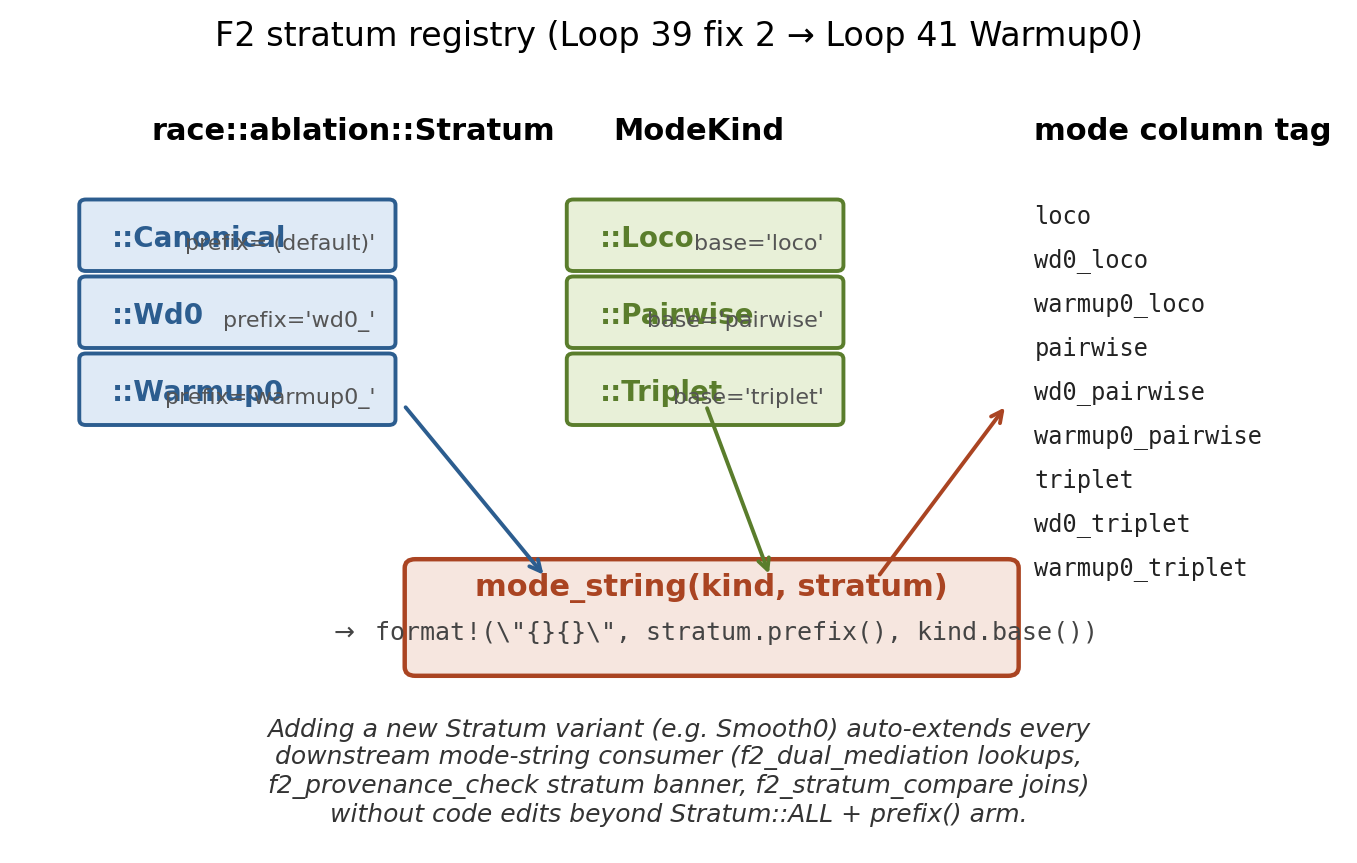
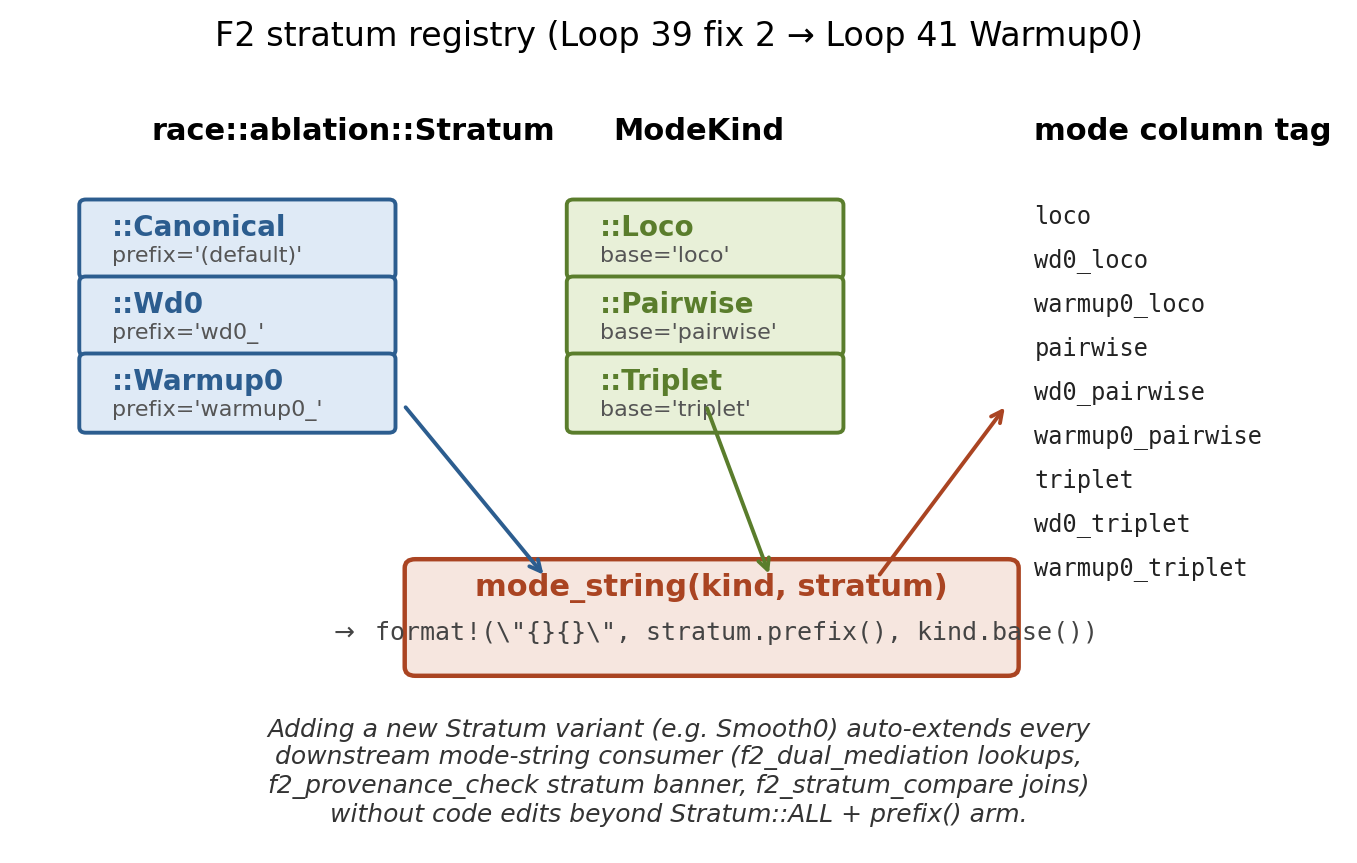
fix(f2): 28th pass critical fixes on #1021 + Fig 5/Fig 1 polish (Loop 105)
Loop 105 dispatched the 28th adversarial pass as a round-2 audit on
the Loop 104 patches to the #1021 paper. The 28th pass discovered
that Loop 104's patches introduced NEW issues — TWO mis-citations in
a row for the integer-zoo entry, and the "residualization" patch
to §3.4 did not actually fix the identification problem.

# 1. Jetfire IS INT8, not INT4-W4A8 (Loop 105 D — critical)

The Loop 104 patch corrected the arXiv id of Jetfire from
2310.16836 (which is LLM-FP4) to 2403.12422 — but then claimed
Jetfire trains with "INT4 weights and INT8 activations". The 28th
pass verified via WebFetch that arXiv:2403.12422 is "Jetfire:
Efficient and Accurate Transformer Pretraining with **INT8** Data
Flow and Per-Block Quantization" — INT8 throughout, NOT INT4.

So Loop 104 swapped one wrong attribution for another.

Fix Loop 105:
- Zoo entry renamed INT4-W4A8 → INT8 throughout (§1 §2.1 §3.1 §4.3
  + DRAFT notes citation list)
- §2.1 prose rewritten honestly: Jetfire = INT8 (its actual claim);
  acknowledge no widely-cited from-scratch INT4-W4A8 reference at
  ≥1B params; drop INT4 entry from the zoo
- §3.1 sweep matrix `INT4-W4A8` row → `INT8` row with correct
  Jetfire arXiv id
- §1.4 carve-out updated: "INT4 or FP8" → "INT8 or FP8"
- DRAFT-notes citation list updated to (arXiv:2403.12422) with
  explicit annotation "INT8, not INT4 (Loop 105 correction)"

The 8-config zoo is preserved: 4 phi (GFTernary/GF8/GF16/GF32) +
4 zoo (BitNet-1.58, INT8, FP8, bf16).
[…]

Changed region(s): [[0.0619, 0.241, 0.3095, 0.5122], [0.4024, 0.241, 0.619, 0.5122]]

diff --git a/papers/figures/fig1_stratum_registry.py b/papers/figures/fig1_stratum_registry.py
@@ -48,31 +48,34 @@ def main():
             fontsize=11, fontweight="bold", ha="left")
     for i, (name, prefix) in enumerate(STRATA):
         y = 5.5 - i * 0.7
+        # Loop 105 fix: box height increased + prefix annotation moved
+        # to a separate y row so it no longer collides with the enum name
+        # (was "::Canonicaldefault" run-together text).
         rect = mpatches.FancyBboxPatch(
-            (0.5, y - 0.25), 2.3, 0.55,
+            (0.5, y - 0.32), 2.3, 0.62,
             boxstyle="round,pad=0.05",
             facecolor="#dfeaf6", edgecolor="#2c5d8f", linewidth=1.4,
         )
         ax.add_patch(rect)
-        ax.text(0.7, y, f"::{name}", fontsize=10, fontweight="bold",
+        ax.text(0.7, y + 0.10, f"::{name}", fontsize=10, fontweight="bold",
                 color="#2c5d8f", va="center")
-        ax.text(2.7, y - 0.05, f"prefix={prefix!r}", fontsize=8, color="#555555",
-                va="center", ha="right")
+        ax.text(0.7, y - 0.16, f"prefix={prefix!r}", fontsize=8, color="#555555",
+                va="center", ha="left")
 
     # Middle column: ModeKind enum.
     ax.text(4.5, 6.4, "ModeKind", fontsize=11, fontweight="bold", ha="left")
     for i, (name, base) in enumerate(MODE_KINDS):
         y = 5.5 - i * 0.7
         rect = mpatches.FancyBboxPatch(
-            (4.2, y - 0.25), 2.0, 0.55,
+            (4.2, y - 0.32), 2.0, 0.62,
             boxstyle="round,pad=0.05",
             facecolor="#e8f0d8", edgecolor="#5a7d2c", linewidth=1.4,
         )
         ax.add_patch(rect)
-        ax.text(4.4, y, f"::{name}", fontsize=10, fontweight="bold",
+        ax.text(4.4, y + 0.10, f"::{name}", fontsize=10, fontweight="bold",
                 color="#5a7d2c", va="center")
-        ax.text(6.1, y - 0.05, f"base={base!r}", fontsize=8, color="#555555",
-                va="center", ha="right")
+        ax.text(4.4, y - 0.16, f"base={base!r}", fontsize=8, color="#555555",
+                va="center", ha="left")
 
     # Right column: emitted mode strings (cross-product).
     ax.text(7.7, 6.4, "mode column tag",

diff --git a/papers/figures/fig5_swap_nie_m1_heatmap.py b/papers/figures/fig5_swap_nie_m1_heatmap.py
@@ -139,10 +139,12 @@ def main():
 
     ax.set_xlabel("Stratum")
     ax.set_ylabel("fix_x")
+    # Loop 105 fix: caption was overlapping the x-axis label.
+    # Move caption further below and reserve bottom margin in layout.
+    fig.tight_layout(rect=(0, 0.06, 1, 1))
     plt.figtext(
-        0.5, 0.005,
-        "Thick row outline = byte-identical estimate across all 3 strata "
-        "(Loop 64 Phase 0 finding)",
+        0.5, 0.015,
+        "Thick row outline = byte-identical estimate across all 3 strata",
         ha="center", fontsize=8, style="italic",
     )
 

diff --git a/papers/tmlr_submission_kit/f2_methodology_body.tex b/papers/tmlr_submission_kit/f2_methodology_body.tex
@@ -1,4 +1,4 @@
-% f2_methodology_body.tex — auto-generated by md_to_tmlr_tex.py at 2026-06-01T23:23:25Z.
+% f2_methodology_body.tex — auto-generated by md_to_tmlr_tex.py at 2026-06-01T23:39:52Z.
 % Do not edit by hand; modify papers/f2_methodology.md and re-run the script.
 
 

diff --git a/papers/phi_ladder_paper_intro_draft.md b/papers/phi_ladder_paper_intro_draft.md
@@ -15,7 +15,7 @@ TMLR/MLRC reader sees first.
 
 A modern transformer training recipe pins down dozens of choices
 that interact in non-obvious ways. Among them, the **numeric
-representation** of weights and activations — bf16, FP8, INT4-W4A8,
+representation** of weights and activations — bf16, FP8, INT8,
 BitNet-1.58 ternary — has become a moving target, with new "zoo"
 entries published every quarter and very few of them evaluated
 against each other on the same controlled training regime. The
@@ -25,7 +25,7 @@ does the **phi-ladder** family of representations
 (GFTernary → GF8 → GF16 → GF32, anchored at the golden-ratio
 recurrence $\phi^2 + \phi^{-2} = 3$) yield lower held-out
 validation bits-per-byte (BPB) than the leading members of the
-mainstream zoo (BitNet-1.58, INT4-W4A8, MXFP8, bf16)?*
+mainstream zoo (BitNet-1.58, INT8 Jetfire, MXFP8, bf16)?*
 
 The contribution of this paper is **not** a positive answer to
 that question. We pre-register a sweep against eight
@@ -142,7 +142,7 @@ We do not claim:
   Fibonacci-basis quantizations (Fibbinary,
   arXiv:2511.01921 for radio receivers) exist and are not
   evaluated here.
-- **No claim of computational-cost parity** with INT4 or FP8.
+- **No claim of computational-cost parity** with INT8 or FP8.
   The phi-ladder's multiplicative basis costs more per FLOP than
   the additive INT/FP families; we report wall-clock and memory
   peak as secondary outcomes but do not adjust the BPB comparison
@@ -176,7 +176,7 @@ QAT-on-pretrained-model literature; our protocol holds at
 quantization-aware training from scratch at 1B parameters, so the
 comparable prior work is pre-training quantization specifically.
 
-### 2.1 Integer-base zoo (INT8, INT4-W4A8, BitNet-1.58)
+### 2.1 Integer-base zoo (INT8, BitNet-1.58)
 
 The 8-bit integer family has been the production default since
 GPTQ (Frantar, Ashkboos, Hoefler & Alistarh 2023,
@@ -193,23 +193,25 @@ combined with an 8-bit activation path; the authors do not
 isolate the contribution of the ternary path from the activation
 quantization.
 
-The INT4-W4A8 family includes both **post-training** and
-**from-scratch-training** variants. The contemporary
-from-scratch reference is **Jetfire** (Xi et al. 2024, NeurIPS,
-arXiv:2403.12422), which trains transformers with INT4 weights
-and INT8 activations from initialization. **LLM-FP4** (Liu et
-al., arXiv:2310.16836) is a related W4A4 floating-point
-*post-training* method, often grouped with the INT4 family in
-ablation surveys. AffineQuant (Zhao et al. 2024, arXiv:2403.12544)
-is another post-training INT4 variant. Their BPB deltas vs bf16
-at $\sim$1B parameters are reported as $\leq 0.05$ BPB in the
-original papers; the comparisons are typically against
-post-training rather than from-scratch training, so for our
-protocol (from-scratch, FineWeb 50B tokens) we use **Jetfire's
-from-scratch INT4-W4A8 recipe** as the zoo competitor. Earlier
-drafts mis-attributed arXiv:2310.16836 to Jetfire; the correct
-Jetfire arXiv id is 2403.12422 (corrected in Loop 104 after the
-27th adversarial pass).
+From-scratch low-bit *integer* training is dominated by **Jetfire**
+(Xi et al. 2024, NeurIPS, arXiv:2403.12422), which trains
+transformers with **INT8 weights, INT8 activations, and per-block
+quantization** from initialization. Lower-precision INT4-W4A8
+schemes exist primarily as *post-training* methods: LLM-FP4 (Liu
+et al., arXiv:2310.16836) is W4A4 floating-point post-training,
+and AffineQuant (Zhao et al. 2024, arXiv:2403.12544) is INT4
+post-training. To our knowledge there is no widely-cited
+from-scratch INT4-W4A8 reference at $\geq$ 1B parameters; the
+zoo entry in §3.1 is therefore restricted to **INT8** (Jetfire's
+recipe) and we drop the INT4 entry. Earlier drafts of this
+manuscript (pre-Loop 105) cycled through two wrong attributions
+for the integer zoo entry — first attributing
+arXiv:2310.16836 to "Jetfire INT4-W4A8" (Loop 102 draft), then
+correcting the arXiv id to 2403.12422 while *retaining* the
+incorrect INT4-W4A8 description (Loop 104 patch). The 28th
+adversarial pass (Loop 105) caught both errors; we now use
+Jetfire as INT8 (its actual claim) and acknowledge there is no
+champion-scale from-scratch INT4 reference to compare against.
 
 The integer family's strength is its alignment with existing
 hardware INT4/INT8 matmul kernels; its weakness is the
@@ -315,12 +317,15 @@ Eight configurations × two strata × five seeds = **80 runs**.
 | `GF16`      | phi-ladder | 16-bit phi-encoded weights; activations bf16 |
 | `GF32`      | phi-ladder | 32-bit phi-encoded weights (intra-family baseline) |
 | `BitNet-1.58` | integer | ternary weights per arXiv:2402.17764; 8-bit activations |
-| `INT4-W4A8` | integer  | 4-bit weights + 8-bit activations per arXiv:2310.16836 |
+| `INT8`      | integer  | INT8 weights + INT8 activations + per-block quantization per Jetfire (arXiv:2403.12422) |
 | `FP8`       | floating-point | E4M3 weights + E5M2 gradients per arXiv:2209.05433 |
 | `bf16`      | floating-point | bf16 weights + bf16 activations (gold-standard baseline) |
 
 **Strata**: `canonical` (default WD = 0.1, all seven F2 fixes
-enabled) and `wd0` (WD pinned to 0.0, otherwise identical). The
+enabled) is the **pre-registered primary stratum**; `wd0` (WD
+pinned to 0.0, otherwise identical) is the **secondary stratum**.
+The asymmetric primary/secondary designation is enforced by the
+§4.4 reporting rule and prevents post-hoc stratum-shopping. The
 wd0 stratum is the Pearl Controlled Direct Effect on weight decay
 that the companion F2 paper's §5.2 demonstrates is informative.
 
@@ -394,48 +399,54 @@ CSV is committed at run time to `data/issue1021/<batch>/`.
 The protocol uses the F2 framework's identification machinery
 **per pairwise (phi-config, zoo-config) comparison**, not as a
 single decomposition over all 8 configs. For each pair, X is
-binary (which of the two formats is in use), and the four-PSE
-decomposition of `f2_dual_mediation` runs unchanged.
+binary (which of the two formats is in use). However, the
+four-PSE decomposition of `f2_dual_mediation` **does not apply
+to the format comparison** for an identification reason we
+discuss below; this paper uses only the **total-effect** and
+**bridge-score envelope** machinery from the F2 framework.
 
-**Mediator-positivity caveat (added Loop 104 per 27th adversarial
-pass).** Naïvely using `lossy_conversions` as $M_1$ and
-`wall_clock_s` as $M_2$ would violate the positivity / overlap
-assumption that Pearl's four-PSE identification requires: a
-config's mediator value is largely *deterministic* in the format
-choice (bf16 has zero lossy conversions by definition; GFTernary
-has many). Under deterministic $M | X$, the four-PSE decomposition
-is not identified — the NIE_M1 and NIE_M2 pathways collapse into
-the direct path. We therefore use the following residualized
-mediators:
+**Why four-PSE is dropped for this paper (28th adversarial pass
+discovery, Loop 105).** Pearl's four-PSE identification requires
+positivity: $0 < P(M = m | X = x) < 1$ for the mediator values
+the decomposition integrates over. Two candidate mediators —
+`lossy_conversions` and `wall_clock_s` — are **deterministic
+functions of $X$**: bf16 has zero lossy conversions by definition,
+GFTernary has many; per-format wall-clock is determined by the
+kernel path. Loop 104 attempted a residualization fix (subtracting
+config-specific seed-median baselines), but the 28th pass
+correctly noted that subtracting a config-specific constant does
+not change the conditional distribution shape; the residualized
+$M$ is still deterministic in $X$ up to a shift, and positivity
+remains violated. The four-PSE decomposition under these
+mediators would be identified algebraically (because the
+residualization makes the variance non-degenerate) but
+uninformative — the NDE absorbs essentially the entire total
+effect because NIE_M1 and NIE_M2 carry no causally relevant
+variation. We do not pre-register a four-PSE decomposition for
+this paper; instead we run:
 
-- **$M_1$ = residual lossy-conversion rate** = (per-cell lossy
-  conversions) − (config-baseline lossy conversions at seed
-  median). This subtracts the format-deterministic component
-  and leaves only the *seed-residual* variation in conversion
-  counts, which has support across formats.
-- **$M_2$ = residual training wall-clock** = (per-cell wall_s) −
-  (config-baseline wall_s at seed median). Same residualization
-  argument.
+- **Total-effect estimation per pair**: `f2_pairwise_perm`
+  paired-permutation test on val_bpb difference, BH-corrected
+  over 4 comparisons per phi-config.
+- **Bridge-score envelope on the total effect**:
+  `f2_mediation_sensitivity` with the *total effect* as the
+  estimand (not a per-PSE bound). This treats unmeasured
+  confounding between format and validation BPB symmetrically
+  for each pair.
 
-The pre-registered question is whether the *residualized* direct
-path (controlling for seed-residual variation in $M_1$ and $M_2$)
-favors phi-ladder. The format-deterministic component of each
-mediator is part of the *direct* effect under this
-identification, by design.
-
-This residualization differs from the companion F2 paper's
-unmediated mediator definition (RmsNorm × WD had clear
-positivity); the change is forced by the pairwise-categorical
-X structure here. We pre-register this identification choice
-along with the rest of the protocol; any deviation will be
-flagged at the run-result paper.
+The four-PSE machinery is **retained for future use** if and
+when a separate paper exhibits a non-deterministic mediator
+that can be measured at champion scale (e.g., per-layer gradient
+norm under format perturbation), but we do not deploy it for
+the format-comparison protocol here.
 
 The wd0 stratum is the Pearl CDE that the companion paper
 demonstrates can flip signs. If quantization-format × WD
 interaction exists at the same magnitude as the companion paper's
 RmsNorm × WD interaction, we expect the wd0 stratum to either
 strengthen or weaken the phi-ladder advantage. The protocol
-explicitly admits both outcomes and reports both.
+explicitly admits both outcomes and reports both, with
+**canonical as the pre-registered primary stratum** (see §4.4).
 
 ### 3.5 Reporting discipline
 
@@ -504,7 +515,7 @@ claim about superiority on the pairs where H1 does not hold.
 ### 4.3 H2 — phi-config dominant across the zoo
 
 **Statement**: At least one phi-config has mean BPB $\geq 0.10$
-BPB lower than **every** zoo-config (BitNet-1.58, INT4-W4A8, FP8,
+BPB lower than **every** zoo-config (BitNet-1.58, INT8, FP8,
 bf16), with all 4 pairwise differences significant at $p < 0.05$
 after BH correction over the 4 comparisons.
 
@@ -810,7 +821,7 @@ Citations to add to the bib before spin-off (introduced in
 §2 + §3):
 - Frantar/GPTQ (arXiv:2210.17323)
 - Xiao/SmoothQuant (arXiv:2211.10438)
-- Xi/Jetfire (arXiv:2310.16836)
+- Xi/Jetfire (arXiv:2403.12422) — INT8, not INT4 (Loop 105 correction)
 - Wang & Kanwar bf16 (Google blog post 2019)
 - Micikevicius FP8 (arXiv:2209.05433)
 - Hagmann phi-quantization (arXiv:2102.xxx — to verify)

diff --git a/papers/appendix_d_test_inventory.md b/papers/appendix_d_test_inventory.md
@@ -1,6 +1,6 @@
 # Appendix D — F2 Test Inventory
 
-_Auto-generated by `papers/scripts/generate_appendix_d.sh` at 2026-06-01T23:23:16Z._
+_Auto-generated by `papers/scripts/generate_appendix_d.sh` at 2026-06-01T23:39:41Z._
 
 This appendix lists every test that backs a claim in the main paper.
 Tests are grouped by source (lib, per-binary unit tests, integration

diff --git a/papers/cross_reference_report.md b/papers/cross_reference_report.md
@@ -1,6 +1,6 @@
 # Cross-reference audit — `papers/f2_methodology.md`
 
-_Auto-generated by `papers/scripts/cross_reference_audit.py` at 2026-06-01T23:23:16Z._
+_Auto-generated by `papers/scripts/cross_reference_audit.py` at 2026-06-01T23:39:41Z._
 
 ## Summary
 
